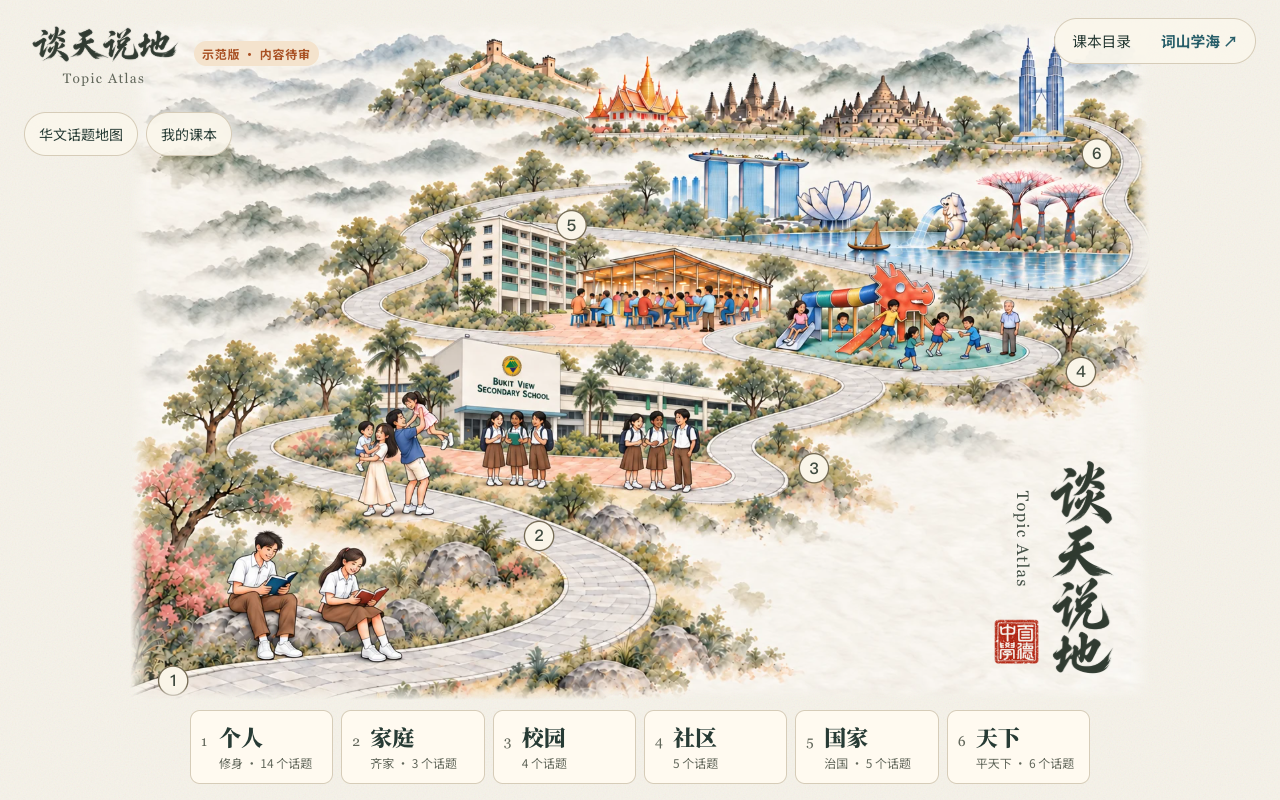
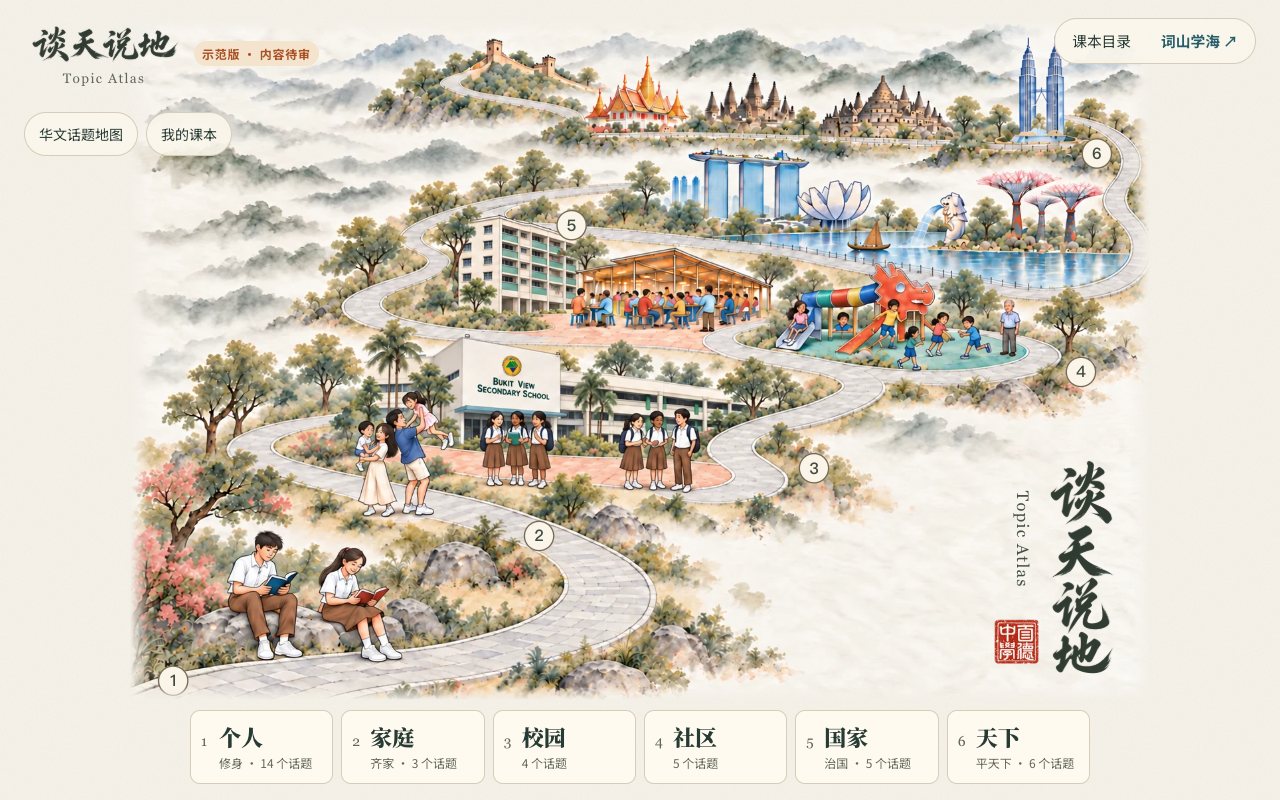
Vary foreground readers' expressions

diff --git a/js/app.js b/js/app.js
@@ -64,7 +64,7 @@ function atlasScene(r,i){
 }
 function atlasMap(){
   return '<div class="atlas-stage"><div class="mapbox atlas-map"><svg viewBox="0 0 1536 1024" role="group" aria-label="话题地图">'+
-   '<image href="assets/atlas/watercolor-map-v39.webp" width="1536" height="1024" aria-hidden="true"/>'+
+   '<image href="assets/atlas/watercolor-map-v40.webp" width="1536" height="1024" aria-hidden="true"/>'+
    SCHOOL_IDENTITY+REGIONS.map(atlasScene).join("")+ATLAS_BRANDING+'</svg></div></div>'+
    '<nav class="atlas-regions" aria-label="话题地图">'+REGIONS.map(function(r,i){
     return '<button data-reg="'+r.id+'" class="atlas-region'+(regionMine(r.id)?' mine':'')+'"><span class="atlas-index" aria-hidden="true">'+(i+1)+'</span><span><b>'+atlasName(r)+'</b><span class="atlas-meta">'+(r.motto?esc(r.motto)+' · ':'')+countR(r.id)+' 个话题</span></span>'+(regionMine(r.id)?'<span class="atlas-mine">我的课本</span>':'')+'</button>';

diff --git a/docs/20261030_Codex_reader-expressions_handoff.md b/docs/20261030_Codex_reader-expressions_handoff.md
@@ -1,0 +1,14 @@
+# Foreground reader expressions
+
+Updated October 30, 2026 by HOD/MTL Mdm Chun Kai Xin
+
+Owner approved the viewport layout and revised artwork, then requested different expressions for the two foreground readers because their matching smiles felt unnatural.
+
+Built-in imagegen edits the approved v39 map. The boy should look quietly absorbed in his book with a neutral closed mouth. The girl should have a small relaxed closed-lip smile. Both look down at their own pages. The school, HDB housing, all other people, routes and watercolor composition remain the approved reference.
+
+Exact prompt:
+
+> Precise localized expression edit. This is an approved 1536x1024 watercolor atlas. Change ONLY the facial expressions of the TWO seated foreground students reading books at bottom-left (boy face near x210 y804, girl face near x337 y824). Boy: quietly absorbed in his blue book, relaxed eyebrows, eyes open looking down at the page, neutral CLOSED mouth, no smile or teeth. Girl: soft small asymmetric CLOSED-lip smile, relaxed eyes open looking down at her red book, no teeth, no wide grin. Their expressions must be noticeably different and natural for silent individual reading. Preserve head size and angle, hair, uniforms, skin tones, hands, books, bodies, rocks and planting exactly. Preserve EVERYTHING else throughout the map, including family, school students' faces/skin tones, school facade/name/crest, HDB beside hawker, playground, paths, landmarks, watercolor paper, color and composition. Do not redraw other people. No change except the two tiny faces. Same dimensions.
+
+
+Saved production asset: `assets/atlas/watercolor-map-v40.webp`. The v39 asset remains preserved. `js/app.js` now points at v40. Visual inspection confirms different reader expressions and the same school/HDB composition. Image dimensions remain 1536x1024. JavaScript syntax and whitespace checks pass. Updated desktop and phone review screenshots accompany the existing PR #2.

diff --git a/CLAUDE.md b/CLAUDE.md
@@ -130,3 +130,6 @@ Handoff and validation: `docs/20261030_Codex_art-integration_handoff.md`. Saved 
 Owner requests a non-scrolling landing screen following Vocab Summit's sea map, with watercolor paper covering the viewport. The complete map now fits inside fixed bounds with floating navigation and six native region buttons. Existing introduction, teacher notes, credits and textbook picker move into native dialogs; other routes retain normal scrolling. The homepage stays pale paper in dark preference. Preserve keyboard focus through picker re-renders and dialog closure.
 
 The lower school behind six students now follows the owner's actual building photo: projecting white sign block, crest above name, blue-green entrance canopy and long cream wing with dark open corridors. The upper block beside the hawker centre is HDB residential housing, never a second school. Readers, family, school and playground characters have clearer faces; school groups show varied skin tones. Built-in imagegen output is `assets/atlas/watercolor-map-v39.webp`, preserving the older production map. Updated exact crest overlay follows the new sign position. Branch `codex/viewport-atlas-facade`; handoff and generation prompt: `docs/20261030_Codex_viewport-atlas_handoff.md`. No edits to student content or data. Seven viewport sizes, dialogs, picker persistence, blocked storage and six routes checked in Chrome.
+
+
+Foreground reader expression refinement, October 30 2026: owner approved the page and requested less identical smiles. Built-in imagegen v40 gives the boy a neutral absorbed reading expression and the girl a small relaxed smile. Production asset is `assets/atlas/watercolor-map-v40.webp`; v39 is preserved. Exact prompt and handoff: `docs/20261030_Codex_reader-expressions_handoff.md`. Existing PR #2 receives the refinement.
